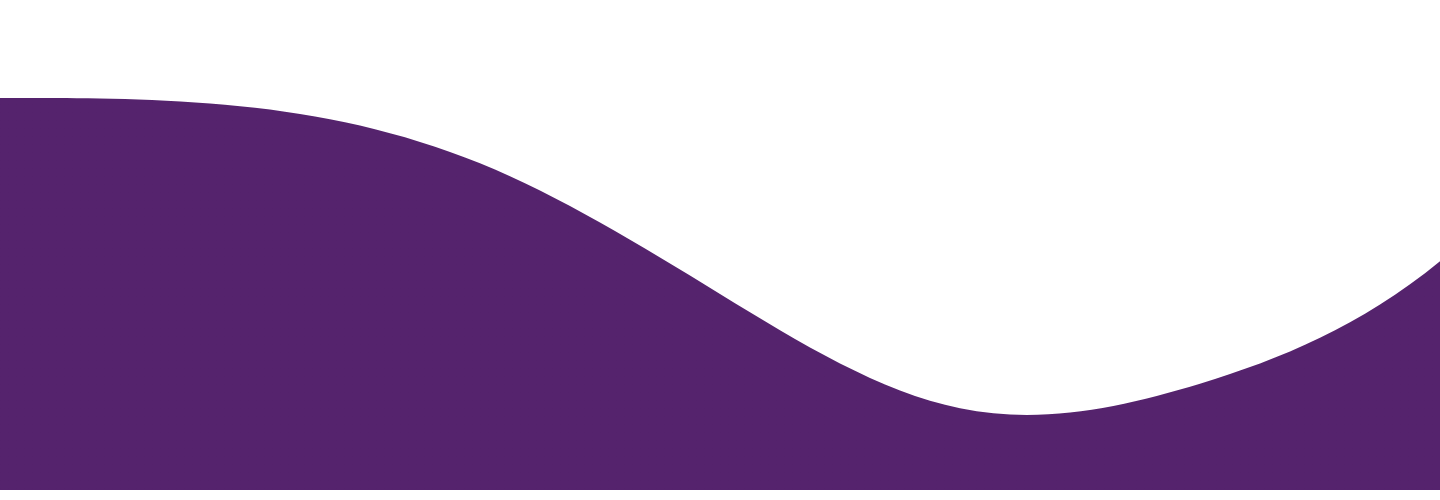
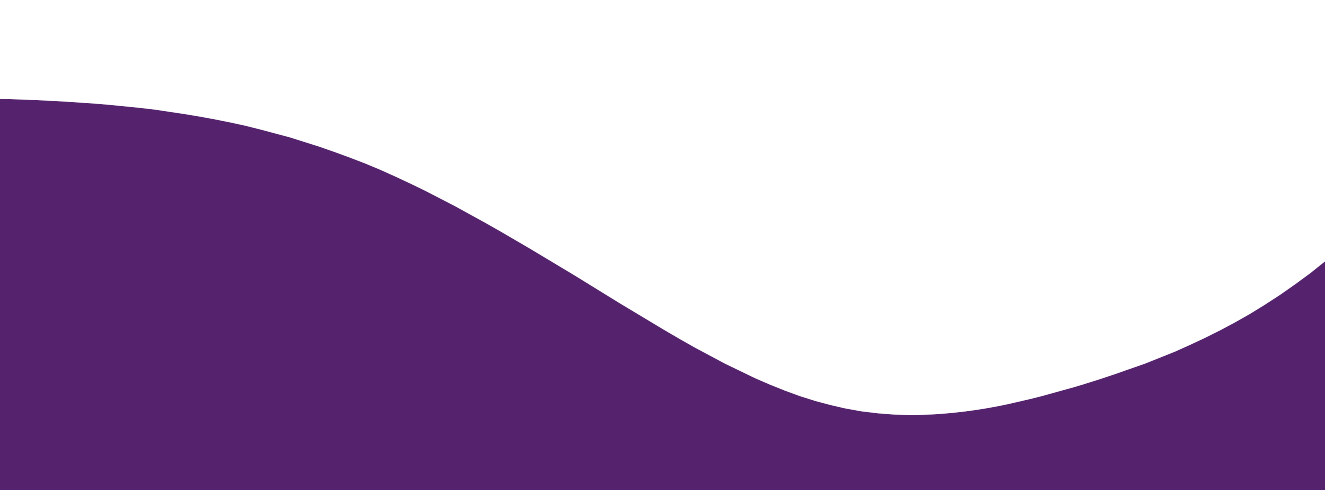
Changed the hero wave and font type

diff --git a/app/layout.js b/app/layout.js
@@ -1,10 +1,10 @@
 // import { Inter } from "next/font/google";
-import { Bangers } from '@next/font/google';
+import { Rubik } from '@next/font/google';
 import "./globals.css";
 
-const bangers = Bangers({
-  weight: ['400'],
+const usedFont = Rubik({
   subsets: ['latin'],
+  weight: ['400', '500', '700'],
 });
 // const inter = Inter({ subsets: ["latin"] });
 
@@ -16,7 +16,7 @@ export const metadata = {
 export default function RootLayout({ children }) {
   return (
     <html lang="en">
-      <body className={bangers.className}>
+      <body className={usedFont.className}>
         {children}
         </body>
     </html>

diff --git a/app/page.module.css b/app/page.module.css
@@ -14,9 +14,9 @@
   left: 0;
   right: 0;
   /* bottom: -221px; */
-  bottom: -100px;
+  bottom: -250px;
   height: 762px;
-  background: url(/images/wave.png);
+  background: url(/images/wave.svg);
   background-repeat: no-repeat;
   background-size: 100% 100%;
 }

diff --git a/app/globals.css b/app/globals.css
@@ -13,9 +13,6 @@
     overflow-x: hidden;
     letter-spacing: 0.05em;
   }
-  body {
-    font-family: "Poppins", sans-serif;
-  }
   
   img {
     max-width: 100%;
